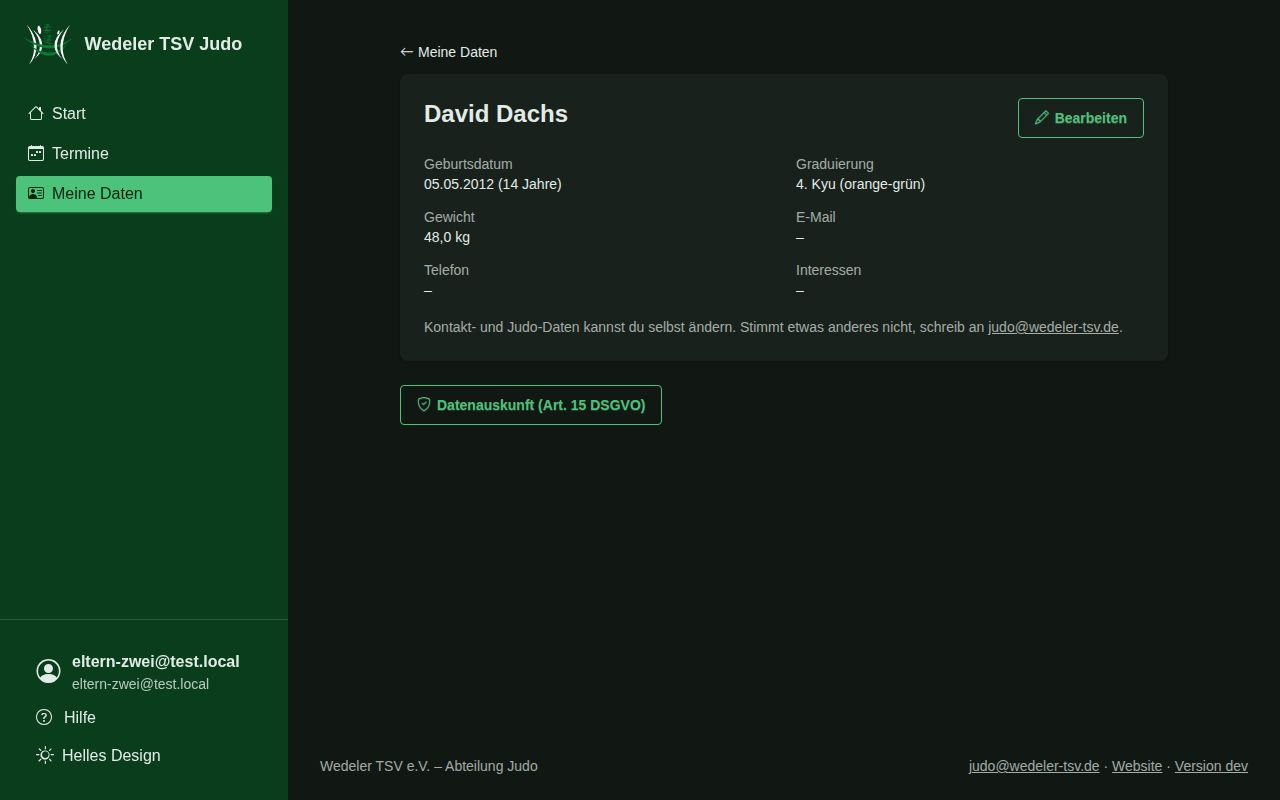
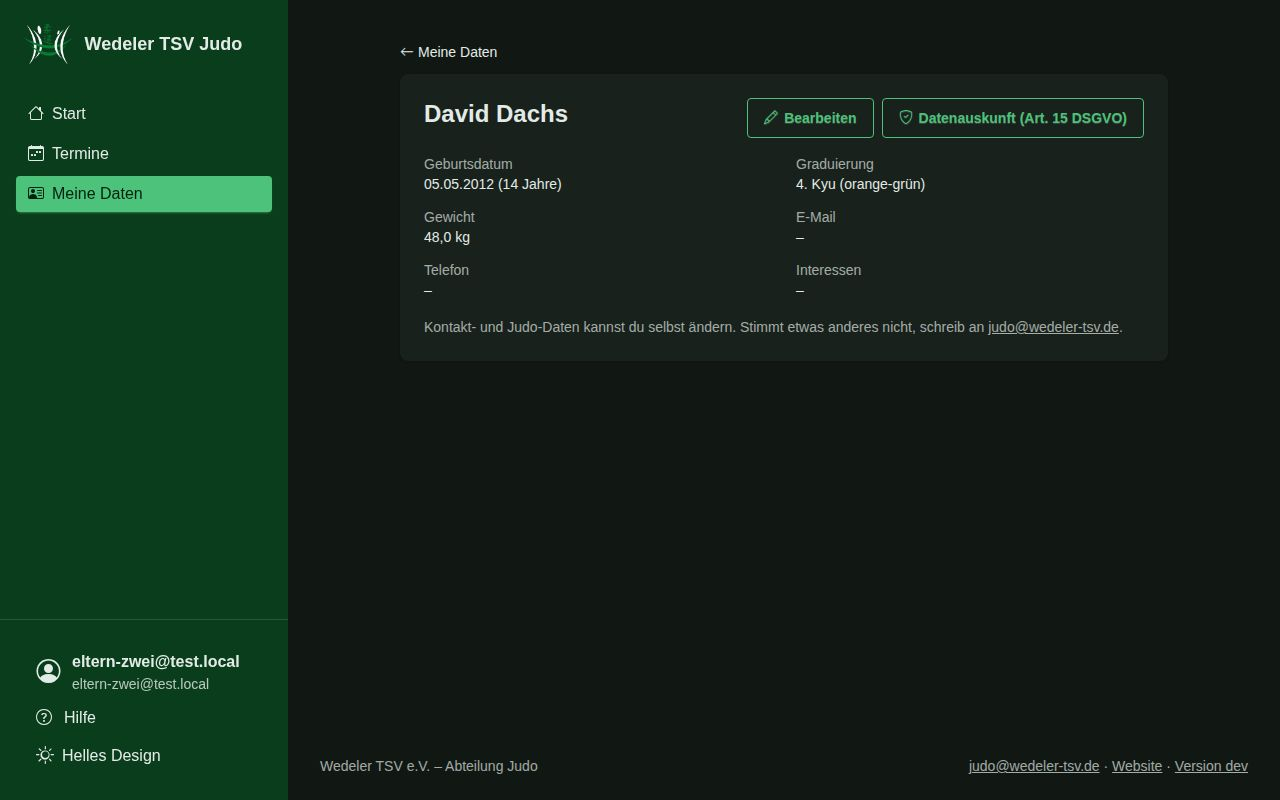
feat: Kopfzeilen mit Aktionen, Abrechnung entkoppelt, Passkey-Ansicht aufgeräumt
- Seitenkopf: Titel und Aktionen in einer Zeile, Beschreibung darunter
- Veranstaltungen: nur „Veranstaltung anlegen“ im Kopf, Unterseiten unter der Tabelle
- „Meine Abrechnung“ ohne Verknüpfung zu den Abrechnungen der Verwaltung;
  dort statt Umschalter ein Button „Stundensätze“ unter der Liste
- Meine Daten: Datenauskunft im Kopf
- Benutzer: „Benutzer anlegen“ statt „Person einladen“
- Meine Anmeldung: mit Passkey nur „Verwalten“, sonst „Passkey hinzufügen“
- Meine Passkeys: Hinzufügen im Kopf; Angemeldete Geräte breiter

Claude-Session: https://claude.ai/code/session_017LHgXea5AxfRcr57bsDwjB

Changed region(s): [[0.5938, 0.125, 0.875, 0.1562], [0.3125, 0.5, 0.5, 0.5312]]

diff --git a/portal/events/templates/events/event_list.html b/portal/events/templates/events/event_list.html
@@ -2,17 +2,11 @@
 {% load help %}
 {% block title %}Veranstaltungen{% endblock %}
 {% block content %}
-<div class="mb-6 flex flex-wrap items-center justify-between gap-3">
-  <div><div class="flex items-center gap-1"><h1 class="text-3xl font-bold">Veranstaltungen</h1>{% help_link "veranstaltungen" %}</div><p class="mt-1 text-base-content/70">Trainings, Wettkämpfe, Lehrgänge und Prüfungen mit ihren Terminen und Übungsleitern.</p></div>
-  {% if can_manage %}
-  <div class="flex flex-wrap gap-2">
-    <a class="btn btn-primary" href="{% url 'event_create' %}"><i class="bi bi-calendar-plus" aria-hidden="true"></i> Veranstaltung anlegen</a>
-    <a class="btn btn-outline btn-primary" href="{% url 'target_group_list' %}"><i class="bi bi-bullseye" aria-hidden="true"></i> Zielgruppen-Vorlagen</a>
-    <a class="btn btn-outline btn-primary" href="{% url 'role_list' %}"><i class="bi bi-person-badge" aria-hidden="true"></i> Rollen</a>
-    <a class="btn btn-outline btn-primary" href="{% url 'event_type_list' %}"><i class="bi bi-tags" aria-hidden="true"></i> Veranstaltungsarten</a>
-  </div>
-  {% endif %}
+<div class="flex flex-wrap items-center justify-between gap-3">
+  <div class="flex items-center gap-1"><h1 class="text-3xl font-bold">Veranstaltungen</h1>{% help_link "veranstaltungen" %}</div>
+  {% if can_manage %}<a class="btn btn-primary" href="{% url 'event_create' %}"><i class="bi bi-calendar-plus" aria-hidden="true"></i> Veranstaltung anlegen</a>{% endif %}
 </div>
+<p class="mt-1 mb-6 text-base-content/70">Trainings, Wettkämpfe, Lehrgänge und Prüfungen mit ihren Terminen und Übungsleitern.</p>
 <section class="card bg-base-100 shadow-sm" aria-labelledby="h-veranstaltungen"><div class="card-body">
   <h2 class="card-title" id="h-veranstaltungen">{{ rows|length }} Veranstaltung{{ rows|length|pluralize:"en" }}</h2>
   {% if rows %}
@@ -33,4 +27,11 @@
   </div>
   {% else %}<p class="text-base-content/70">Noch keine Veranstaltungen.</p>{% endif %}
 </div></section>
+{% if can_manage %}
+<div class="mt-6 flex flex-wrap gap-2">
+  <a class="btn btn-outline btn-primary" href="{% url 'target_group_list' %}"><i class="bi bi-bullseye" aria-hidden="true"></i> Zielgruppen-Vorlagen</a>
+  <a class="btn btn-outline btn-primary" href="{% url 'role_list' %}"><i class="bi bi-person-badge" aria-hidden="true"></i> Rollen</a>
+  <a class="btn btn-outline btn-primary" href="{% url 'event_type_list' %}"><i class="bi bi-tags" aria-hidden="true"></i> Veranstaltungsarten</a>
+</div>
+{% endif %}
 {% endblock %}

diff --git a/portal/billing/templates/billing/claim_detail.html b/portal/billing/templates/billing/claim_detail.html
@@ -3,10 +3,11 @@
 {% block content %}
 <div class="mx-auto max-w-4xl">
   <a href="{% if can_decide %}{% url 'claim_list' %}{% else %}{% url 'billing_index' %}{% endif %}" class="link link-hover mb-3 inline-flex items-center gap-1 text-sm"><i class="bi bi-arrow-left" aria-hidden="true"></i> {% if can_decide %}Abrechnungen{% else %}Meine Abrechnung{% endif %}</a>
-  <div class="mb-6 flex flex-wrap items-center justify-between gap-3">
-    <div><h1 class="text-3xl font-bold">{{ claim.member.display_name }}</h1><p class="mt-1 text-base-content/70">{{ claim.month_label }}{% if claim.member.member_number %} · Mitgliedsnummer {{ claim.member.member_number }}{% endif %}</p></div>
+  <div class="flex flex-wrap items-center justify-between gap-3">
+    <h1 class="text-3xl font-bold">{{ claim.member.display_name }}</h1>
     <div class="flex flex-wrap gap-1">{% if claim.is_late %}<span class="badge badge-warning badge-sm">verspätet</span>{% endif %}{% include "billing/_badge.html" with label=claim.get_status_display %}</div>
   </div>
+  <p class="mt-1 mb-6 text-base-content/70">{{ claim.month_label }}{% if claim.member.member_number %} · Mitgliedsnummer {{ claim.member.member_number }}{% endif %}</p>
   {% if claim.is_late %}
   <div role="alert" class="alert alert-warning mb-6"><i class="bi bi-clock-history" aria-hidden="true"></i>
     <span>Nach der Frist eingereicht (Frist war der {{ deadline|date:"d.m.Y" }}).{% if can_decide and claim.status == "submitted" %} Mit „Freigeben“ lässt du die Ausnahme zu; sonst gib die Abrechnung mit Begründung zurück.{% endif %}</span></div>

diff --git a/portal/events/templates/events/role_list.html b/portal/events/templates/events/role_list.html
@@ -3,10 +3,11 @@
 {% block content %}
 <div class="mx-auto max-w-3xl">
   <a href="{% url 'event_list' %}" class="link link-hover mb-3 inline-flex items-center gap-1 text-sm"><i class="bi bi-arrow-left" aria-hidden="true"></i> Veranstaltungen</a>
-  <div class="mb-6 flex flex-wrap items-center justify-between gap-3">
-    <div><h1 class="text-3xl font-bold">Rollen</h1><p class="mt-1 text-base-content/70">Mit welcher Rolle jemand an einem Termin dabei ist: Teilnehmer, Trainer, Co-Trainer … je Person und Termin genau eine.</p></div>
+  <div class="flex flex-wrap items-center justify-between gap-3">
+    <h1 class="text-3xl font-bold">Rollen</h1>
     <a class="btn btn-primary" href="{% url 'role_create' %}"><i class="bi bi-plus-lg" aria-hidden="true"></i> Rolle anlegen</a>
   </div>
+  <p class="mt-1 mb-6 text-base-content/70">Mit welcher Rolle jemand an einem Termin dabei ist: Teilnehmer, Trainer, Co-Trainer … je Person und Termin genau eine.</p>
   {% if without_member %}
   <div role="alert" class="alert alert-warning mb-6"><i class="bi bi-exclamation-triangle" aria-hidden="true"></i>
     <span>Ohne eigenes Mitgliedsprofil können diese Benutzer keine Übungsleiter-Rolle übernehmen: {% for user in without_member %}{{ user.display_name }}{% if not forloop.last %}, {% endif %}{% endfor %}. Verknüpfe sie unter „Mitglieder“ als „eigenes Profil“.</span>

diff --git a/portal/events/templates/events/target_group_list.html b/portal/events/templates/events/target_group_list.html
@@ -3,10 +3,11 @@
 {% block content %}
 <div class="mx-auto max-w-3xl">
   <a href="{% url 'event_list' %}" class="link link-hover mb-3 inline-flex items-center gap-1 text-sm"><i class="bi bi-arrow-left" aria-hidden="true"></i> Veranstaltungen</a>
-  <div class="mb-6 flex flex-wrap items-center justify-between gap-3">
-    <div><h1 class="text-3xl font-bold">Zielgruppen-Vorlagen</h1><p class="mt-1 text-base-content/70">Zielgruppen, die du öfter brauchst. Beim Anlegen einer Veranstaltung übernimmst du sie als Kopie; spätere Änderungen hier betreffen bestehende Veranstaltungen nicht.</p></div>
+  <div class="flex flex-wrap items-center justify-between gap-3">
+    <h1 class="text-3xl font-bold">Zielgruppen-Vorlagen</h1>
     <a class="btn btn-primary" href="{% url 'target_group_create' %}"><i class="bi bi-plus-lg" aria-hidden="true"></i> Vorlage anlegen</a>
   </div>
+  <p class="mt-1 mb-6 text-base-content/70">Zielgruppen, die du öfter brauchst. Beim Anlegen einer Veranstaltung übernimmst du sie als Kopie; spätere Änderungen hier betreffen bestehende Veranstaltungen nicht.</p>
   <section class="card bg-base-100 shadow-sm" aria-labelledby="h-zielgruppen"><div class="card-body">
     <h2 class="card-title" id="h-zielgruppen">{{ groups|length }} Vorlage{{ groups|length|pluralize:"n" }}</h2>
     {% if groups %}

diff --git a/portal/members/templates/members/my_member.html b/portal/members/templates/members/my_member.html
@@ -9,11 +9,13 @@
         {% if not several %}<p class="text-sm text-base-content/70">Meine Daten</p>{% endif %}
         <h1 class="text-2xl font-bold">{{ member.display_name }}</h1>
       </div>
-      <a class="btn btn-outline btn-primary" href="{% url 'my_member_edit' member.pk %}"><i class="bi bi-pencil" aria-hidden="true"></i> Bearbeiten</a>
+      <div class="flex flex-wrap gap-2">
+        <a class="btn btn-outline btn-primary" href="{% url 'my_member_edit' member.pk %}"><i class="bi bi-pencil" aria-hidden="true"></i> Bearbeiten</a>
+        <a class="btn btn-outline btn-primary" href="{% url 'my_privacy' %}"><i class="bi bi-shield-check" aria-hidden="true"></i> Datenauskunft (Art. 15 DSGVO)</a>
+      </div>
     </div>
     {% include "members/_facts.html" with all=False %}
     <p class="text-sm text-base-content/70">Kontakt- und Judo-Daten kannst du selbst ändern. Stimmt etwas anderes nicht, schreib an <a class="link" href="mailto:{{ club_email }}">{{ club_email }}</a>.</p>
   </div></div>
-  <p class="mt-6"><a class="btn btn-outline btn-primary" href="{% url 'my_privacy' %}"><i class="bi bi-shield-check" aria-hidden="true"></i> Datenauskunft (Art. 15 DSGVO)</a></p>
 </div>
 {% endblock %}

diff --git a/portal/members/templates/members/my_data.html b/portal/members/templates/members/my_data.html
@@ -2,7 +2,10 @@
 {% load help %}
 {% block title %}Meine Daten{% endblock %}
 {% block content %}
-<div class="mb-2 flex items-center gap-1"><h1 class="text-3xl font-bold">Meine Daten</h1>{% help_link "meine-daten" %}</div>
+<div class="mb-2 flex flex-wrap items-center justify-between gap-3">
+  <div class="flex items-center gap-1"><h1 class="text-3xl font-bold">Meine Daten</h1>{% help_link "meine-daten" %}</div>
+  <a class="btn btn-outline btn-primary" href="{% url 'my_privacy' %}"><i class="bi bi-shield-check" aria-hidden="true"></i> Datenauskunft (Art. 15 DSGVO)</a>
+</div>
 {% if links %}
 <p class="mb-6 text-base-content/70">Wähle aus, wessen Daten du sehen oder ändern möchtest.</p>
 <div class="grid gap-4 sm:grid-cols-2">
@@ -22,5 +25,4 @@
   <p class="text-sm text-base-content/70">Die Abteilungsleitung verknüpft dich mit deinem Mitgliedsprofil oder dem deiner Kinder. Schreib dafür an <a class="link" href="mailto:{{ club_email }}">{{ club_email }}</a>.</p>
 </div></div>
 {% endif %}
-<p class="mt-6"><a class="btn btn-outline btn-primary" href="{% url 'my_privacy' %}"><i class="bi bi-shield-check" aria-hidden="true"></i> Datenauskunft (Art. 15 DSGVO)</a></p>
 {% endblock %}

diff --git a/portal/events/templates/events/event_type_list.html b/portal/events/templates/events/event_type_list.html
@@ -3,10 +3,11 @@
 {% block content %}
 <div class="mx-auto max-w-3xl">
   <a href="{% url 'event_list' %}" class="link link-hover mb-3 inline-flex items-center gap-1 text-sm"><i class="bi bi-arrow-left" aria-hidden="true"></i> Veranstaltungen</a>
-  <div class="mb-6 flex flex-wrap items-center justify-between gap-3">
-    <div><h1 class="text-3xl font-bold">Veranstaltungsarten</h1><p class="mt-1 text-base-content/70">Training, Wettkampf, Lehrgang … Rollen lassen sich auf bestimmte Arten beschränken.</p></div>
+  <div class="flex flex-wrap items-center justify-between gap-3">
+    <h1 class="text-3xl font-bold">Veranstaltungsarten</h1>
     <a class="btn btn-primary" href="{% url 'event_type_create' %}"><i class="bi bi-plus-lg" aria-hidden="true"></i> Art anlegen</a>
   </div>
+  <p class="mt-1 mb-6 text-base-content/70">Training, Wettkampf, Lehrgang … Rollen lassen sich auf bestimmte Arten beschränken.</p>
   <section class="card bg-base-100 shadow-sm" aria-labelledby="h-arten"><div class="card-body">
     <h2 class="card-title" id="h-arten">{{ types|length }} Veranstaltungsart{{ types|length|pluralize:"en" }}</h2>
     <ul class="list">

diff --git a/portal/members/templates/members/member_list.html b/portal/members/templates/members/member_list.html
@@ -3,14 +3,15 @@
 {% load privacy %}
 {% block title %}Mitglieder{% endblock %}
 {% block content %}
-<div class="mb-6 flex flex-wrap items-center justify-between gap-3">
-  <div><div class="flex items-center gap-1"><h1 class="text-3xl font-bold">Mitglieder</h1>{% help_link "mitglieder" %}</div><p class="mt-1 text-base-content/70">Alle Mitglieder der Abteilung.</p></div>
+<div class="flex flex-wrap items-center justify-between gap-3">
+  <div class="flex items-center gap-1"><h1 class="text-3xl font-bold">Mitglieder</h1>{% help_link "mitglieder" %}</div>
   <div class="flex flex-wrap gap-2">
     <a class="btn btn-primary" href="{% url 'member_create' %}"><i class="bi bi-person-plus" aria-hidden="true"></i> Mitglied anlegen</a>
     <a class="btn btn-outline btn-primary" href="{% url 'member_import' %}"><i class="bi bi-upload" aria-hidden="true"></i> CSV-Import</a>
     <a class="btn btn-outline btn-primary" href="{% url 'interest_list' %}"><i class="bi bi-tags" aria-hidden="true"></i> Interessen</a>
   </div>
 </div>
+<p class="mt-1 mb-6 text-base-content/70">Alle Mitglieder der Abteilung.</p>
 
 {% deleted_soon as soon %}
 {% if soon %}

diff --git a/portal/events/templates/events/agenda.html b/portal/events/templates/events/agenda.html
@@ -3,10 +3,11 @@
 {% block title %}Termine{% endblock %}
 {% block content %}
 <div class="mx-auto max-w-3xl">
-  <div class="mb-6 flex flex-wrap items-center justify-between gap-3">
-    <div><div class="flex items-center gap-1"><h1 class="text-3xl font-bold">Termine</h1>{% help_link "termine" %}</div><p class="mt-1 text-base-content/70">Die nächsten sechs Wochen.</p></div>
+  <div class="flex flex-wrap items-center justify-between gap-3">
+    <div class="flex items-center gap-1"><h1 class="text-3xl font-bold">Termine</h1>{% help_link "termine" %}</div>
     {% if can_plan_events %}<a class="btn btn-outline btn-primary" href="{% url 'event_list' %}"><i class="bi bi-calendar3" aria-hidden="true"></i> Veranstaltungen</a>{% endif %}
   </div>
+  <p class="mt-1 mb-6 text-base-content/70">Die nächsten sechs Wochen.</p>
   {% if agenda %}
   <section class="card mb-6 bg-base-100 shadow-sm" aria-labelledby="h-fuer-dich"><div class="card-body">
     <h2 class="card-title" id="h-fuer-dich">{% if agenda.several %}Für euch{% else %}Für dich{% endif %}</h2>

diff --git a/portal/billing/templates/billing/claim_list.html b/portal/billing/templates/billing/claim_list.html
@@ -5,7 +5,6 @@
 <div class="mx-auto max-w-4xl">
   <div class="flex items-center gap-1"><h1 class="text-3xl font-bold">Abrechnungen</h1>{% help_link "abrechnungen" %}</div>
   <p class="mt-1 mb-6 text-base-content/70">Monatsabrechnungen der Übungsleiter: prüfen, freigeben und für die Geschäftsstelle herunterladen.</p>
-  {% include "billing/_tabs.html" with active="all" %}
   {% if pending %}
   <section class="card mb-6 bg-base-100 shadow-sm" aria-labelledby="h-pruefen"><div class="card-body">
     <h2 class="card-title" id="h-pruefen">Zu prüfen</h2>
@@ -32,5 +31,6 @@
     <div class="flex flex-wrap gap-2">{% for m in csv_months %}<a class="btn btn-outline btn-primary btn-sm" href="{% url 'claim_csv' m.year m.month %}"><i class="bi bi-filetype-csv" aria-hidden="true"></i> {{ m|date:"F Y" }}</a>{% endfor %}</div>
   </div></section>
   {% endif %}
+  <div class="mt-6"><a class="btn btn-outline btn-primary" href="{% url 'rate_list' %}"><i class="bi bi-cash-stack" aria-hidden="true"></i> Stundensätze</a></div>
 </div>
 {% endblock %}

diff --git a/portal/templates/accounts/user_list.html b/portal/templates/accounts/user_list.html
@@ -2,10 +2,11 @@
 {% load help %}
 {% block title %}Benutzer{% endblock %}
 {% block content %}
-<div class="mb-6 flex flex-wrap items-center justify-between gap-3">
-  <div><div class="flex items-center gap-1"><h1 class="text-3xl font-bold">Benutzer</h1>{% help_link "benutzer" %}</div><p class="mt-1 text-base-content/70">Zugänge zum Portal und ihre Rollen.</p></div>
-  <a class="btn btn-primary" href="{% url 'invite' %}"><i class="bi bi-person-plus" aria-hidden="true"></i> Person einladen</a>
+<div class="flex flex-wrap items-center justify-between gap-3">
+  <div class="flex items-center gap-1"><h1 class="text-3xl font-bold">Benutzer</h1>{% help_link "benutzer" %}</div>
+  <a class="btn btn-primary" href="{% url 'invite' %}"><i class="bi bi-person-plus" aria-hidden="true"></i> Benutzer anlegen</a>
 </div>
+<p class="mt-1 mb-6 text-base-content/70">Zugänge zum Portal und ihre Rollen.</p>
 
 {% if invitations %}
 <section class="card mb-6 bg-base-100 shadow-sm" aria-labelledby="h-einladungen">

diff --git a/portal/help/templates/help/chapters/benutzer.html b/portal/help/templates/help/chapters/benutzer.html
@@ -3,7 +3,7 @@
 
 <h2 id="einladen">Einladen und Rollen</h2>
 <ul>
-  <li><strong>Einladen:</strong> E-Mail, Name und Rollen (Übungsleiter, Abteilungsleiter, Administrator). Statt per Mail kannst du auch nur einen Link erzeugen und z. B. per Messenger weitergeben.</li>
+  <li><strong>Benutzer anlegen:</strong> E-Mail, Name und Rollen (Übungsleiter, Abteilungsleiter, Administrator); die Person bekommt eine Einladung per Mail. Statt per Mail kannst du auch nur einen Link erzeugen und z. B. per Messenger weitergeben.</li>
   <li><strong>Rollen ändern:</strong> Auf den Namen tippen, Rollen wählen, speichern. Administratoren ändert nur ein Administrator.</li>
   <li><strong>Deaktivieren:</strong> Am Benutzer unten <strong>Benutzer deaktivieren</strong>. Er kann sich dann nicht mehr anmelden; wieder aktivieren geht jederzeit.</li>
   <li>Hat jemand den Zugang noch nicht eingerichtet, kannst du am Benutzer die Einladung <strong>erneut senden</strong> oder einen neuen Link erstellen.</li>
